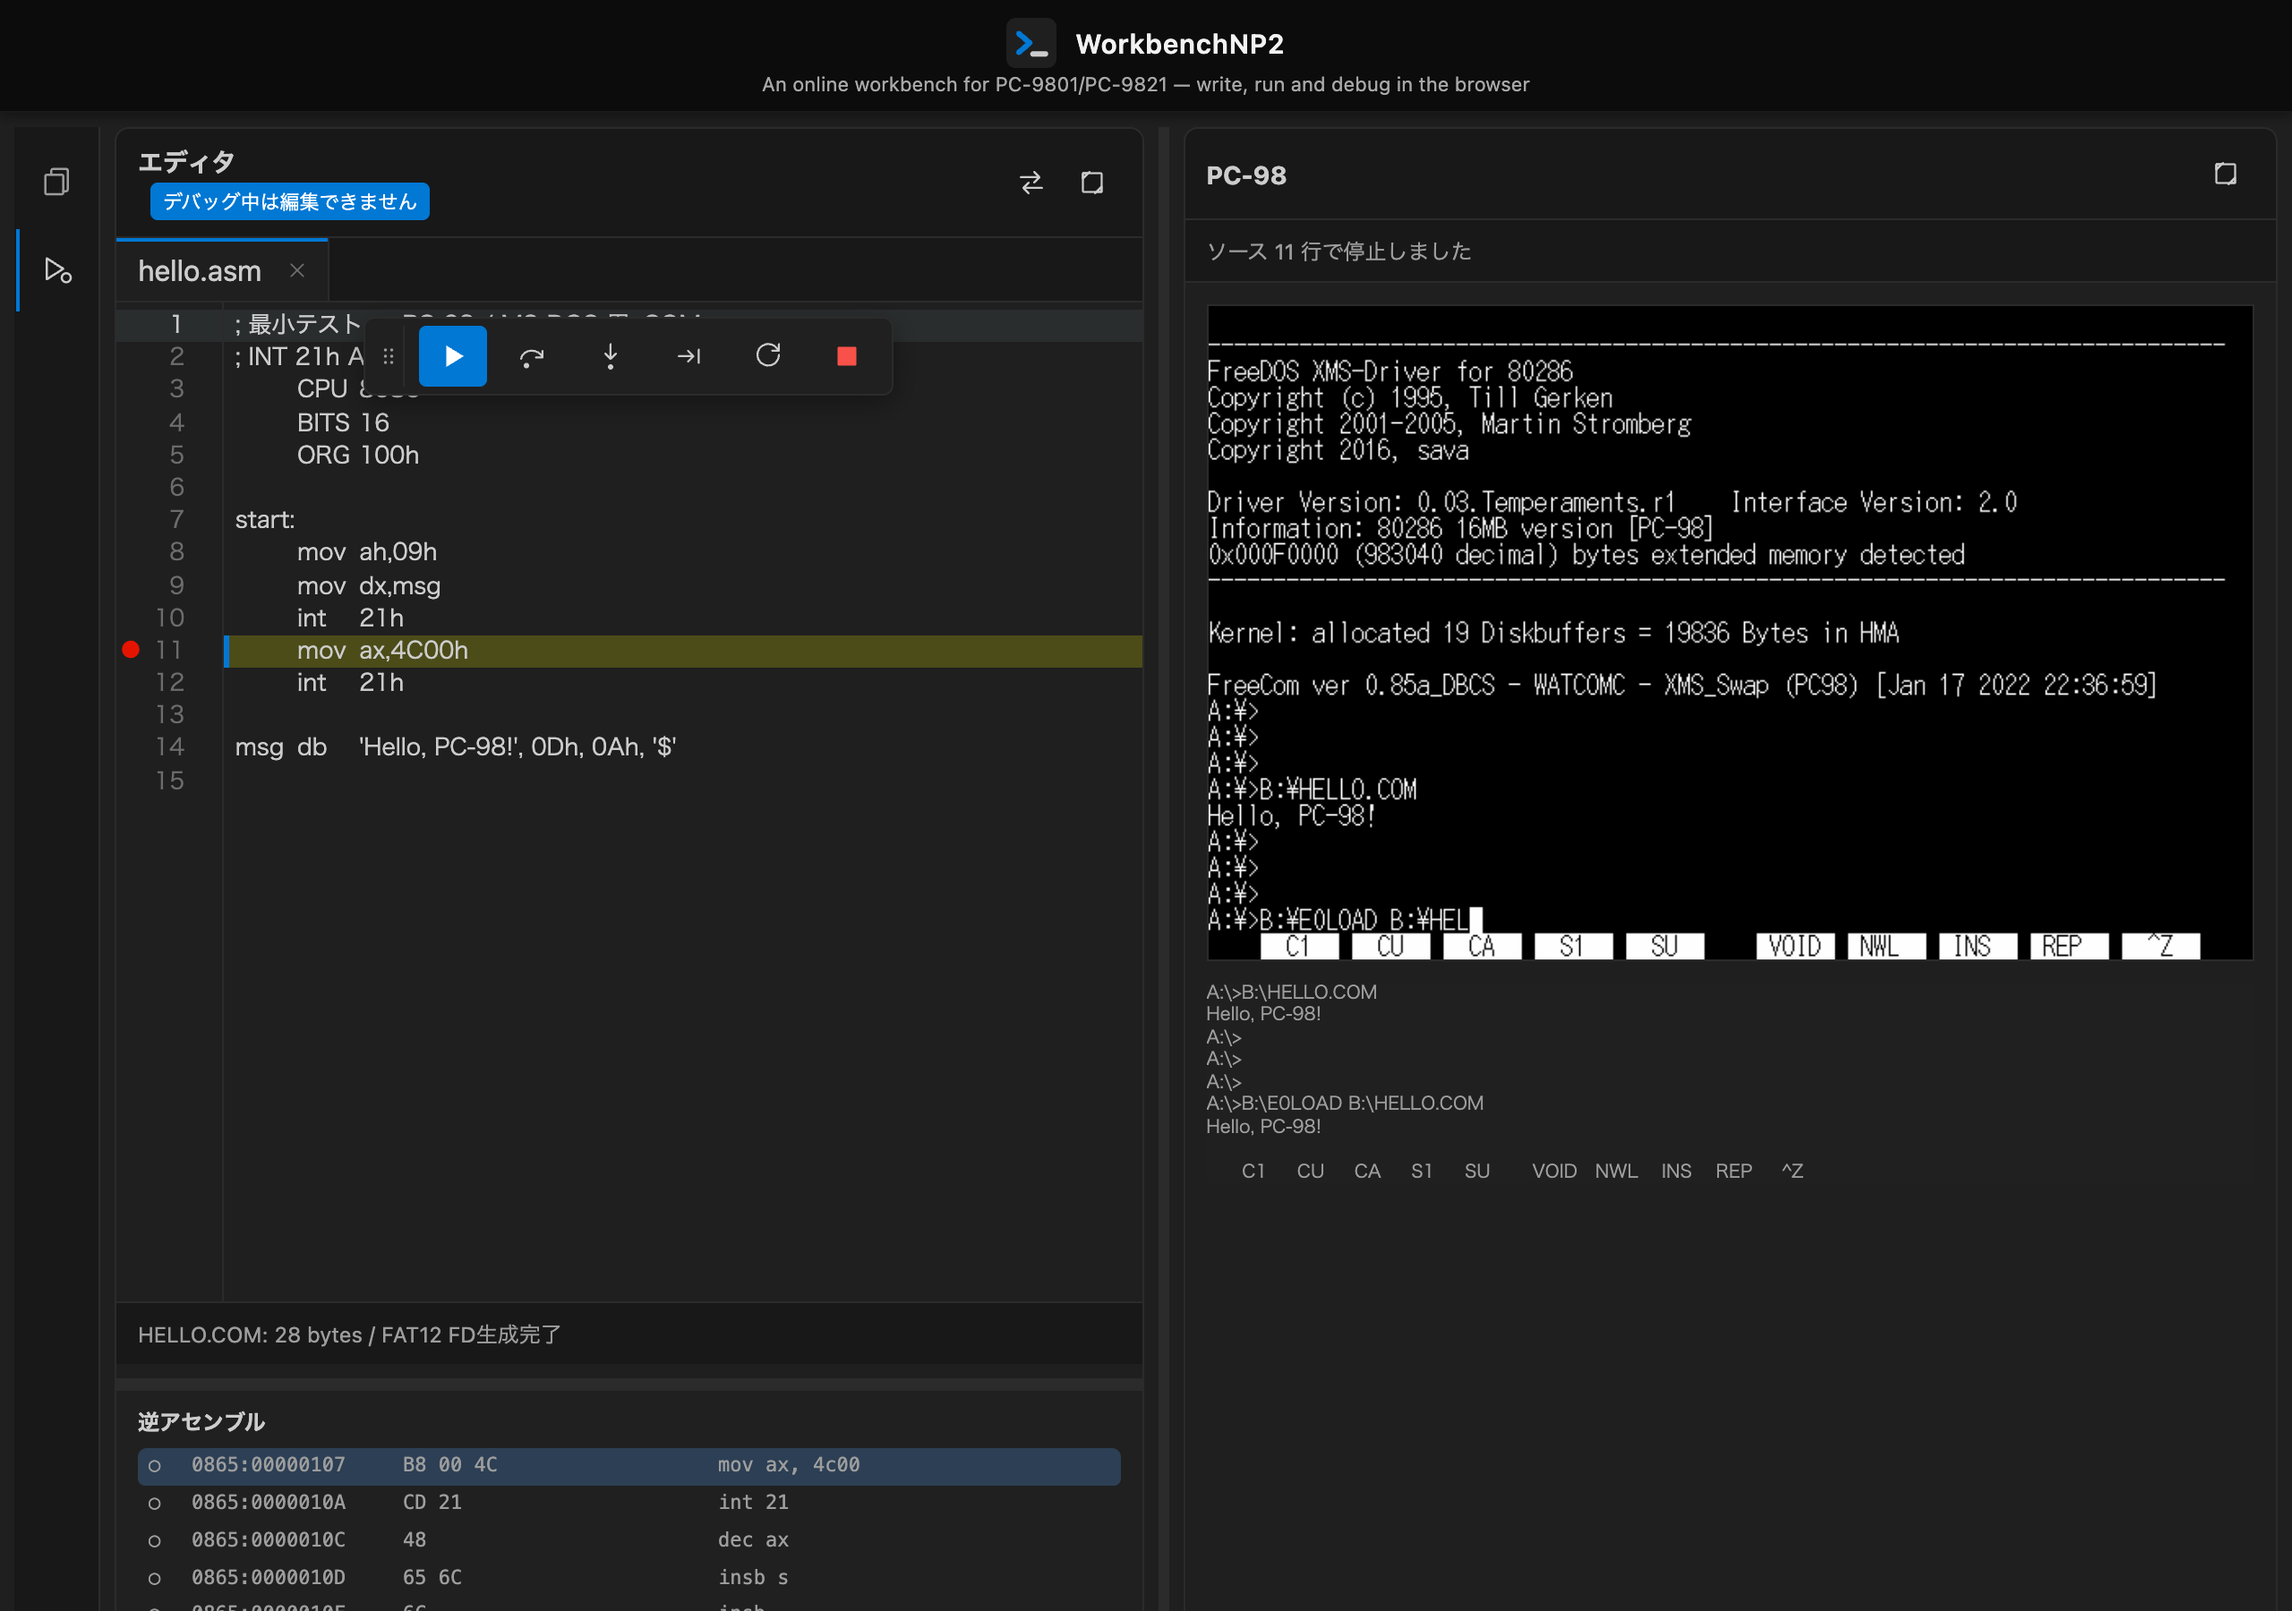
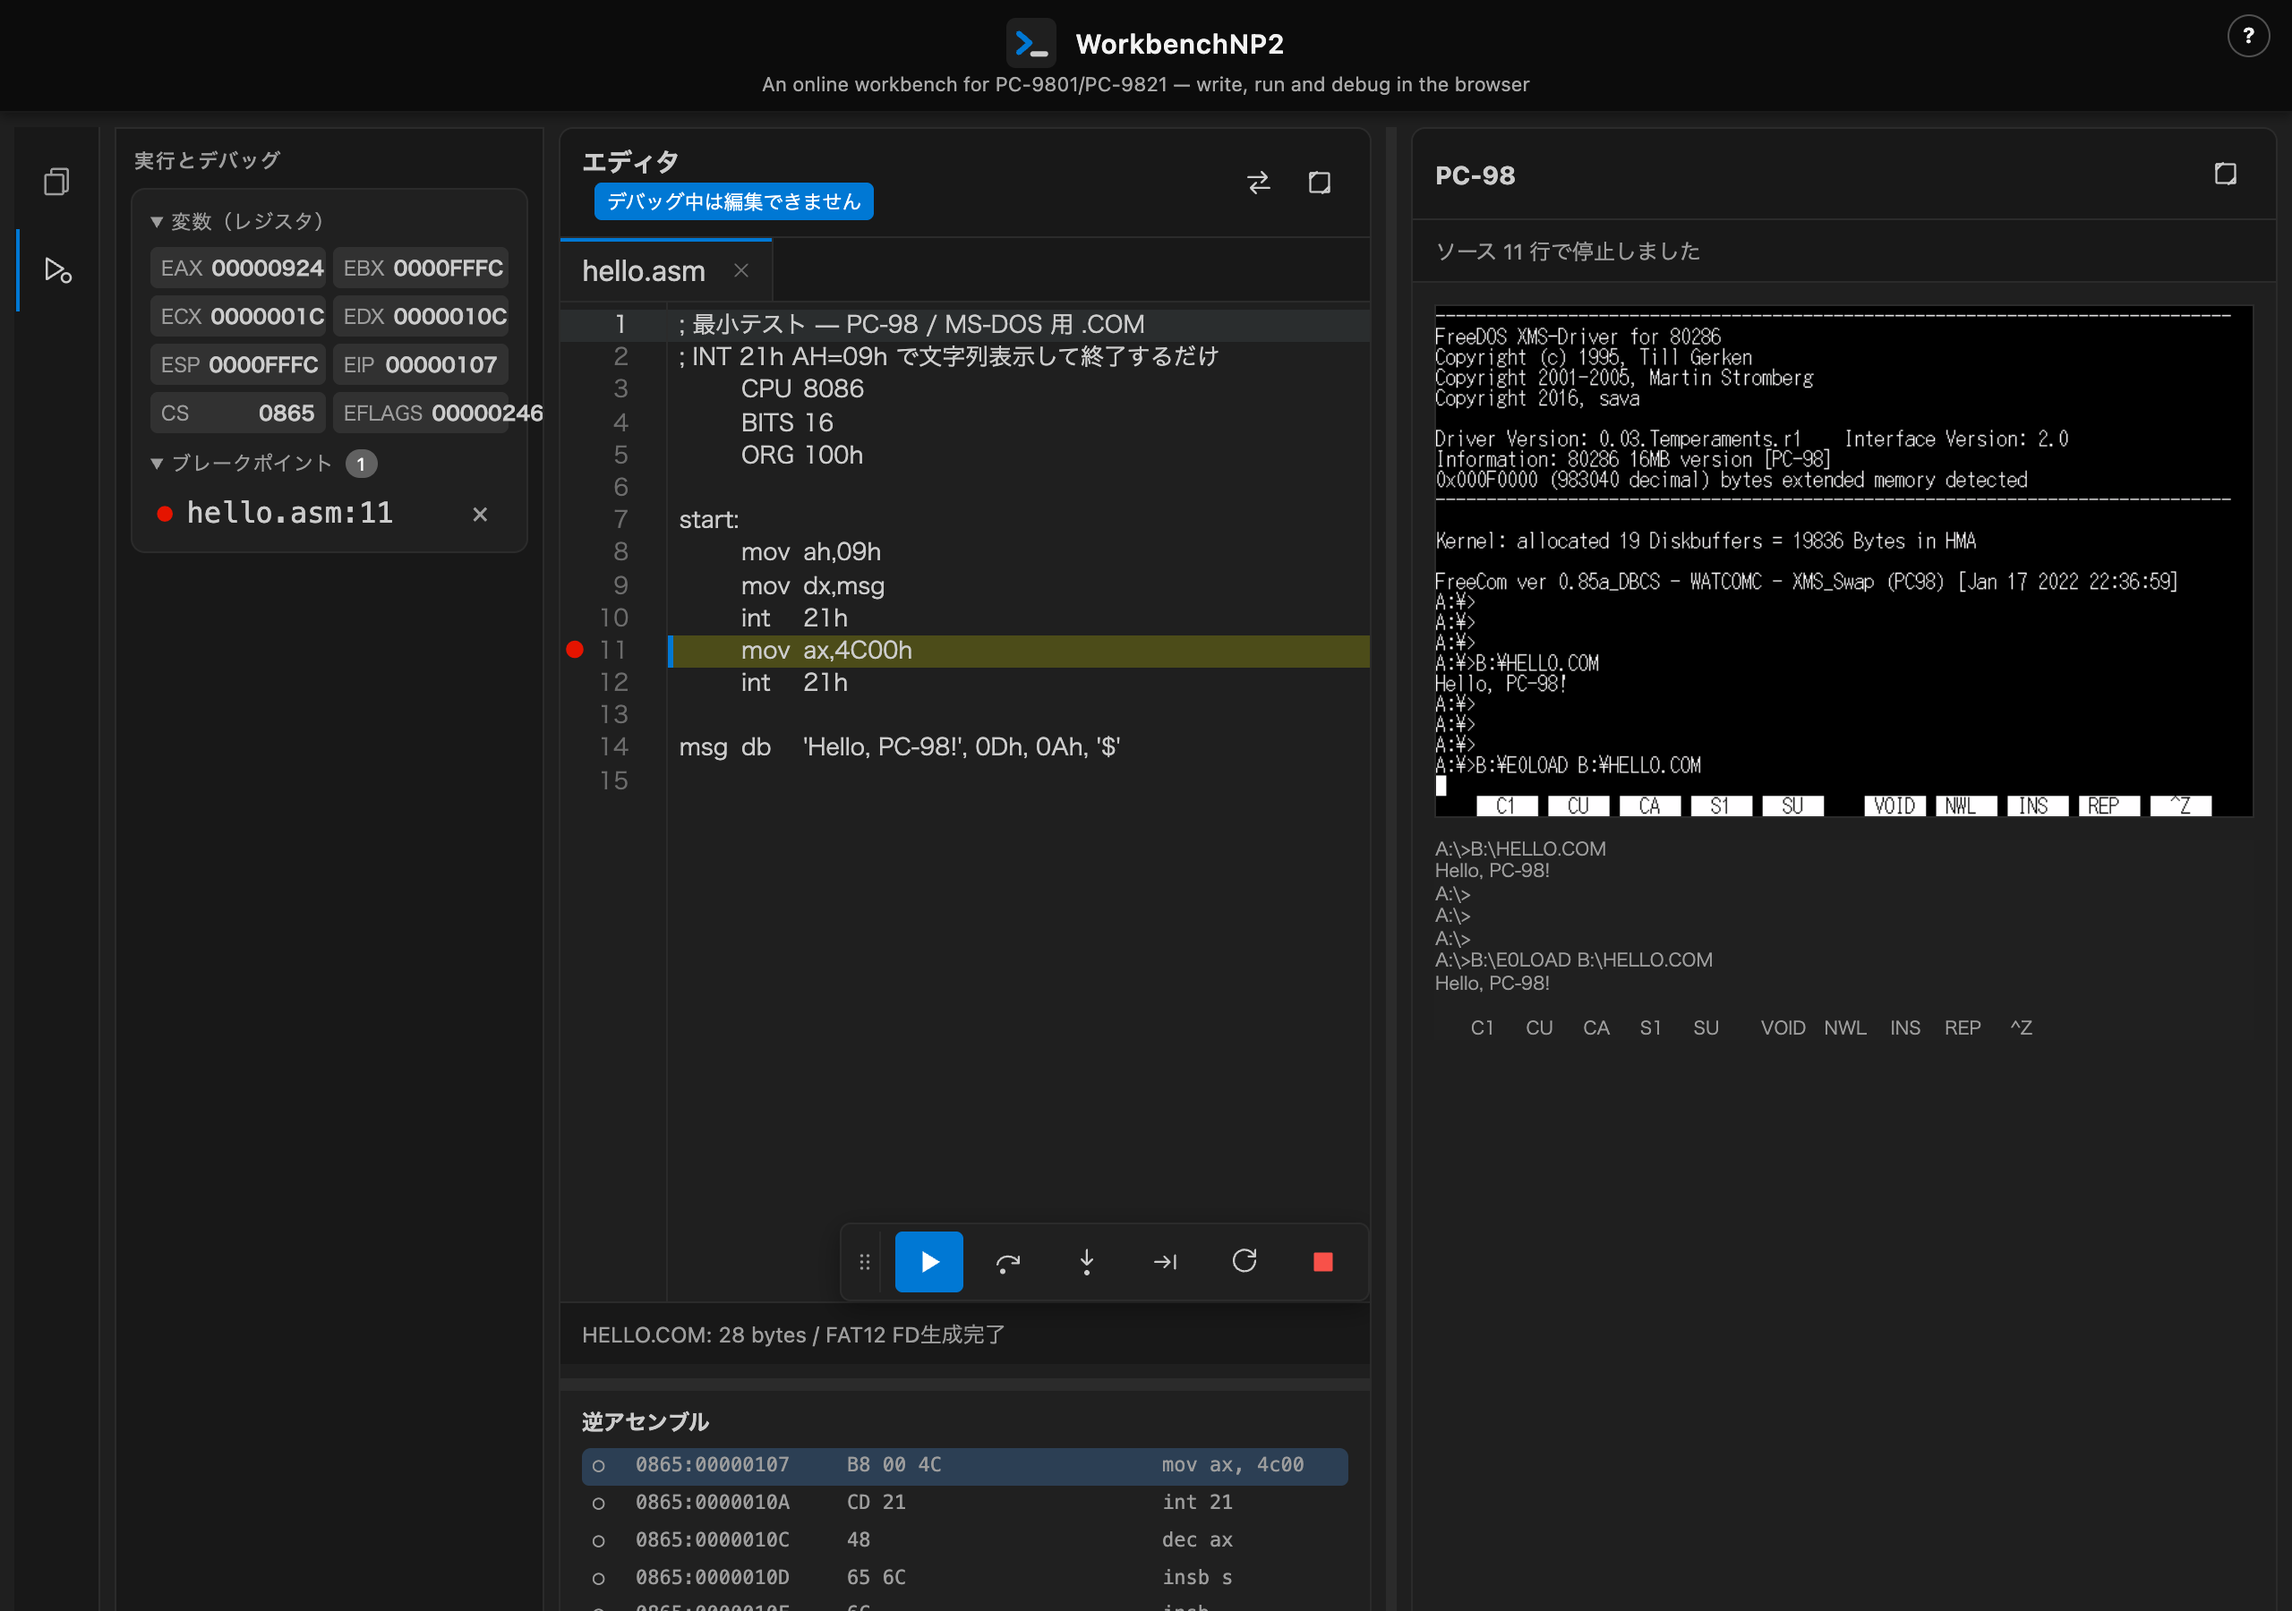
debug.png撮り直し、フッタ/ヘッダにヘルプ導線を追加、READMEの現状節を更新
- debug.png: サイドバーを実行とデバッグビューへ強制的に開き、レジスタとBP一覧を
  写す。フローティングのデバッグツールバーもソース1〜2行目に被らない位置(エディタ
  右下寄り)へ退避させてから撮影する
- フッタのステータスバー(.app-footer)を姉妹プロジェクト相当の重さ(font-size 11px、
  左右padding 16px)へ寄せつつ、左詰め/右詰めのステータスバー構造は維持する
- フッタ先頭に「使い方」リンク、ヘッダ右上に「?」ボタンを追加。どちらもhelp.html?
  lang=jaを別タブで開く
- ide/verify-workbench.mjs: 上記2つのヘルプ導線の存在・href・別タブ属性と、
  「?」ボタンがヘッダのタイトル/タグラインと重なっていないことをgetBoundingClientRect
  実測で検査(デスクトップ/モバイル両方)。フッタリンク数の期待値も7→8件に更新
- README.md: 「現状」節をWorkbenchNP2の実態(1ファイル=1プログラム、複数ファイル
  ビルド不可、IndexedDB保存のみ、ビルドボタン廃止、ide/help.html)へ更新

検証: node ide/verify-workbench.mjs で35件PASS・exit 0(基準34件+新規1件)

diff --git a/ide/workbench.css b/ide/workbench.css
@@ -71,6 +71,25 @@ input, select { border: 1px solid var(--vsc-input-border); color: var(--vsc-fg);
 .app-title-row { display: flex; justify-content: center; align-items: center; width: 100%; gap: 10px; }
 .app-header h1 { margin: 0; color: var(--np2-header-text); font-size: 15px; font-weight: 600; letter-spacing: .03em; }
 .app-tagline { margin: 2px 0 0; color: var(--np2-header-tagline); font-size: 11px; }
+/* タイトル/タグラインは中央寄せなので、ヘルプへの導線は絶対配置でヘッダ右上へ独立させる。 */
+.header-help-btn {
+  position: absolute;
+  top: 8px;
+  right: 12px;
+  display: inline-grid;
+  place-items: center;
+  width: 24px;
+  height: 24px;
+  border: 1px solid rgba(255, 255, 255, .28);
+  border-radius: 50%;
+  color: var(--np2-header-text);
+  font-size: 12px;
+  font-weight: 700;
+  text-decoration: none;
+  line-height: 1;
+}
+.header-help-btn:hover { background: rgba(255, 255, 255, .14); }
+.header-help-btn:focus-visible { outline: 1px solid var(--vsc-focus); outline-offset: 1px; }
 .workspace-grid { display: grid; flex: 1; grid-template-columns: var(--activity-col) var(--sidebar-col) var(--editor-col) var(--splitter-col) minmax(0, 1fr); gap: 8px; padding: 8px; }
 body.sidebar-hidden .workspace-grid { grid-template-columns: var(--activity-col) var(--editor-col) var(--splitter-col) minmax(0, 1fr); }
 .activity-bar { order: -1; min-width: 0; display: flex; flex-direction: column; align-items: center; gap: 2px; padding: 6px 0; border-right: 1px solid var(--vsc-border); background: var(--vsc-ui-bg); }
@@ -266,7 +285,7 @@ body.splitting .disassembly-splitter { background: var(--vsc-accent); }
 /* 等倍未満へ縮小されるとドットが潰れて文字が読めないので、そのときだけ補間を効かせる。 */
 #screen.smoothed { image-rendering: auto; }
 #screen-text { margin: 0 12px 12px; height: 112px; overflow: auto; color: var(--vsc-muted); background: var(--vsc-widget-bg); font: 10px/1.25 ui-monospace, monospace; white-space: pre-wrap; }
-.app-footer { display: flex; flex: 0 0 auto; align-items: center; justify-content: space-between; gap: 12px; min-height: 24px; padding: 3px 8px; overflow: hidden; border-top: 1px solid var(--vsc-border); color: var(--vsc-fg-dim); background: var(--vsc-chrome-bg); font-size: 10px; }
+.app-footer { display: flex; flex: 0 0 auto; align-items: center; justify-content: space-between; gap: 12px; min-height: 28px; padding: 6px 16px; overflow: hidden; border-top: 1px solid var(--vsc-border); color: var(--vsc-fg-dim); background: var(--vsc-chrome-bg); font-size: 11px; }
 .status-left { display: flex; min-width: 0; align-items: center; gap: 10px; white-space: nowrap; }
 #save-state { color: var(--vsc-fg-dim); }
 #save-state.dirty { color: var(--vsc-warning); }
@@ -320,6 +339,6 @@ body.maximized-editor #editor { height: min(78vh, 900px); }
   .debug-panel { margin: 0 7px 7px; padding: 6px 7px; }
   .ide-registers { grid-template-columns: repeat(2, minmax(0, 1fr)); }
   #screen-text { display: none; }
-  .app-footer { gap: 6px; }
+  .app-footer { gap: 6px; padding: 6px 10px; }
   .status-links { max-width: 48%; }
 }

diff --git a/ide/index.html b/ide/index.html
@@ -10,6 +10,7 @@
 </head>
 <body class="sidebar-hidden">
   <header class="app-header">
+    <a class="header-help-btn" href="./help.html?lang=ja" target="_blank" rel="noopener noreferrer" title="使い方" aria-label="使い方">?</a>
     <div class="app-title-row">
       <img class="app-icon" src="./pc98dev-icon.svg" alt="" width="28" height="28">
       <h1>WorkbenchNP2</h1>
@@ -152,6 +153,7 @@
   <footer class="app-footer">
     <div class="status-left"><span id="save-state">未保存の変更なし</span><span id="current-path"></span></div>
     <div class="status-links">
+      <a href="./help.html?lang=ja" target="_blank" rel="noopener noreferrer">使い方</a> ･
       <a href="https://www.urara-works.jp/" target="_blank" rel="noopener noreferrer">© URARA-works</a> ･
       <a href="./core/LICENSE.NP2kai" target="_blank" rel="noopener noreferrer">NP2kai (GPLv2+)</a> ･
       <a href="./vendor/webnp2/LICENSE.WebNP2" target="_blank" rel="noopener noreferrer">WebNP2</a> ･

diff --git a/README.md b/README.md
@@ -4,10 +4,15 @@
 [WebNP2](../WebNP2) を実行基盤に、C / アセンブラで書いたコードを
 その場でビルド・実行・デバッグできるようにするのが目標。
 
-## 現状（2026-08-06）
+## 現状（2026-08-13）
 
-**ASM/Cのビルド・実行・ソース行デバッグに加え、IDE UI第2段（エディタ上でのBP・停止行・行送り）まで到達。
-「1ファイル＝1プログラム」の実験的プロジェクトとして公開する方針のため、フォルダ階層は作らない。**
+**名称はWorkbenchNP2。ASM/Cのビルド・実行・ソース行デバッグに加え、IDE UI第2段
+（エディタ上でのBP・停止行・行送り）まで到達。「1ファイル＝1プログラム」の実験的
+プロジェクトとして公開する方針のため、複数ファイルにまたがるビルドはできず、
+`#include`は同梱の標準ヘッダのみを許可する。保存先はこのブラウザ（IndexedDB）だけで、
+ローカルフォルダ接続機能は削除済み。書いたコードを外へ持ち出す手段はダウンロードボタン
+のみである。ツールバーは実行・デバッグの2つで、ビルドは実行・デバッグが自動で行うため
+専用ボタンは無い。利用者向けの説明は`ide/help.html`にある。**
 
 ```
 .asm ──[wasm NASM]──> .COM ──[FAT12 書き込み]──> .xdf ──[WebNP2]──> PC-98 で実行
